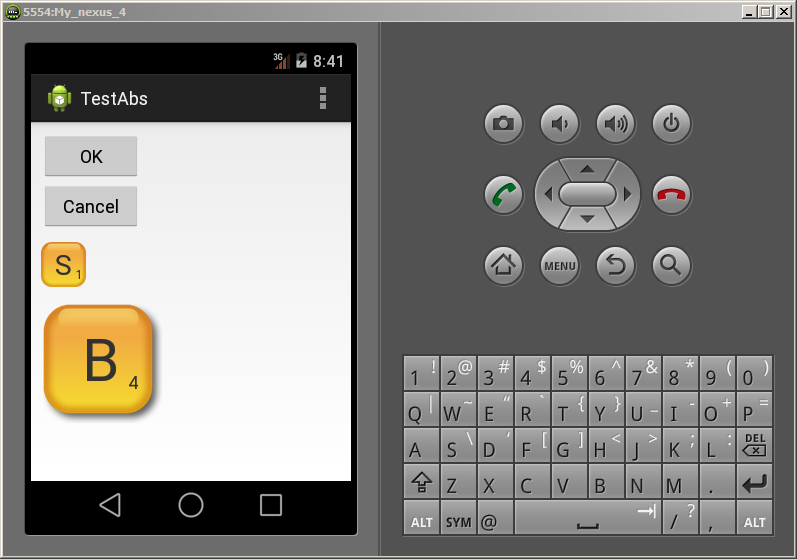
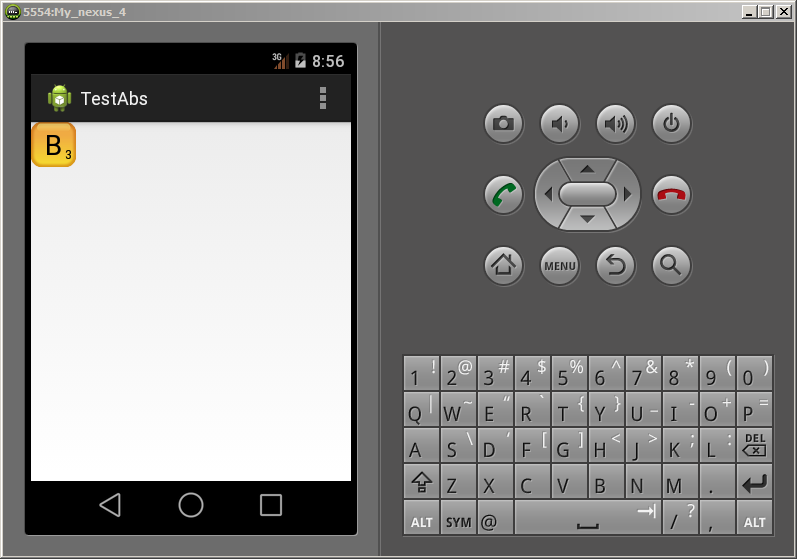
Introduce MyView based (for now) on AbsoluteLayout

Changed region(s): [[0.0301, 0.2129, 0.2108, 0.7603], [0.3312, 0.0912, 0.4517, 0.1216]]

diff --git a/TestAbs/src/de/afarber/testabs/MyView.java b/TestAbs/src/de/afarber/testabs/MyView.java
@@ -1,0 +1,72 @@
+package de.afarber.testabs;
+
+import java.util.Random;
+
+import android.content.Context;
+import android.util.AttributeSet;
+import android.util.Log;
+import android.view.View;
+import android.widget.AbsoluteLayout;
+
+@SuppressWarnings("deprecation")
+public class MyView extends AbsoluteLayout {
+	
+	public final static int NUM = 3;
+	public final static String STR = "ABCDEFGHIJKLMNOPQRSTUVWXYZ";
+	public final static String APP = "de.afarber.testabs";
+	
+	private Random mRandom = new Random();
+
+    public MyView(Context context) {
+        this(context, null, 0);
+    }
+
+    public MyView(Context context, AttributeSet attrs) {
+        this(context, attrs, 0);
+    }
+
+    public MyView(Context context, AttributeSet attrs, int defStyle) {
+        super(context, attrs, defStyle);
+        
+        for (int i = 0; i < NUM; i++) {
+        	String letter = String.valueOf(STR.charAt(mRandom.nextInt(STR.length())));
+        	
+        	SmallTile tile = new SmallTile(
+    			getContext(),
+    			null,
+    			letter,
+    			String.valueOf(i + 1)
+    		);
+        	
+            addView(tile);       	
+        }
+    }
+    
+    @Override
+    protected void onSizeChanged (int w, int h, int oldw, int oldh) {
+        super.onSizeChanged(w, h, oldw, oldh);
+
+    	Log.d(APP, "w=" + w + "; h=" + h + ", oldw=" + oldw + ", oldh=" + oldh);
+
+        int count = getChildCount();
+
+        for (int i = 0; i < count; i++) {
+            View child = getChildAt(i);
+            if (child.getVisibility() == GONE)
+            	return;
+            
+        	int x = mRandom.nextInt(w - child.getWidth());
+        	int y = mRandom.nextInt(h - child.getHeight());
+        	AbsoluteLayout.LayoutParams params = new AbsoluteLayout.LayoutParams(
+    			LayoutParams.WRAP_CONTENT, 
+    			LayoutParams.WRAP_CONTENT, 
+    			x, 
+    			y
+        	);
+        	
+        	Log.d(APP, i + ": x=" + x + "; y=" + y);
+        }
+        
+        requestLayout();
+    }
+}

diff --git a/TestAbs/src/de/afarber/testabs/SmallTile.java b/TestAbs/src/de/afarber/testabs/SmallTile.java
@@ -19,7 +19,7 @@ public class SmallTile extends FrameLayout {
     }
 
     public SmallTile(Context context, AttributeSet attrs) {
-        this(context, attrs, "S", "1");
+        this(context, attrs, null, null);
     }
     
     public SmallTile(Context context, AttributeSet attrs, String letter, String value) {
@@ -32,23 +32,27 @@ public class SmallTile extends FrameLayout {
                 LayoutParams.MATCH_PARENT));
 
         mLetter = new TextView(context);
+        mLetter.setTextColor(Color.BLACK);
+        //mLetter.setBackgroundColor(Color.CYAN);
         mLetter.setTextSize(28);
         mLetter.setText(letter);
-        //mLetter.setBackgroundColor(Color.CYAN);
         FrameLayout.LayoutParams letterParams = new FrameLayout.LayoutParams(
-                LayoutParams.WRAP_CONTENT, 
-                LayoutParams.WRAP_CONTENT,
-                Gravity.CENTER);
+            LayoutParams.WRAP_CONTENT, 
+            LayoutParams.WRAP_CONTENT,
+            Gravity.CENTER
+        );
         addView(mLetter, letterParams);
         
         mValue = new TextView(context);
+        mValue.setTextColor(Color.BLACK);
+        //mValue.setBackgroundColor(Color.CYAN);
         mValue.setTextSize(12);
         mValue.setText(value);
-        //mValue.setBackgroundColor(Color.CYAN);
         FrameLayout.LayoutParams valueParams = new FrameLayout.LayoutParams(
-                LayoutParams.WRAP_CONTENT, 
-                LayoutParams.WRAP_CONTENT,
-                Gravity.BOTTOM | Gravity.RIGHT);
+            LayoutParams.WRAP_CONTENT, 
+            LayoutParams.WRAP_CONTENT,
+            Gravity.BOTTOM | Gravity.RIGHT
+        );
         valueParams.setMargins(0, 0, 4, 4);
         addView(mValue, valueParams);
     }

diff --git a/TestAbs/src/de/afarber/testabs/BigTile.java b/TestAbs/src/de/afarber/testabs/BigTile.java
@@ -19,7 +19,7 @@ public class BigTile extends FrameLayout {
     }
 
     public BigTile(Context context, AttributeSet attrs) {
-        this(context, attrs, "B", "4");
+        this(context, attrs, null, null);
     }
     
     public BigTile(Context context, AttributeSet attrs, String letter, String value) {
@@ -32,9 +32,10 @@ public class BigTile extends FrameLayout {
                 LayoutParams.MATCH_PARENT));
 
         mLetter = new TextView(context);
+        mLetter.setTextColor(Color.BLACK);
+        //mLetter.setBackgroundColor(Color.CYAN);
         mLetter.setTextSize(60);
         mLetter.setText(letter);
-        //mLetter.setBackgroundColor(Color.CYAN);
         FrameLayout.LayoutParams letterParams = new FrameLayout.LayoutParams(
                 LayoutParams.WRAP_CONTENT, 
                 LayoutParams.WRAP_CONTENT,
@@ -43,9 +44,10 @@ public class BigTile extends FrameLayout {
         addView(mLetter, letterParams);
         
         mValue = new TextView(context);
+        mValue.setTextColor(Color.BLACK);
+        //mValue.setBackgroundColor(Color.CYAN);
         mValue.setTextSize(18);
         mValue.setText(value);
-        //mValue.setBackgroundColor(Color.CYAN);
         FrameLayout.LayoutParams valueParams = new FrameLayout.LayoutParams(
                 LayoutParams.WRAP_CONTENT, 
                 LayoutParams.WRAP_CONTENT,

diff --git a/TestAbs/src/de/afarber/testabs/MainActivity.java b/TestAbs/src/de/afarber/testabs/MainActivity.java
@@ -1,19 +1,16 @@
 package de.afarber.testabs;
 
-import android.support.v7.app.ActionBarActivity;
 import android.os.Bundle;
+import android.support.v7.app.ActionBarActivity;
 import android.view.Menu;
 import android.view.MenuItem;
 
-
 public class MainActivity extends ActionBarActivity {
-
-    @Override
+	@Override
     protected void onCreate(Bundle savedInstanceState) {
         super.onCreate(savedInstanceState);
         setContentView(R.layout.activity_main);
     }
-
 
     @Override
     public boolean onCreateOptionsMenu(Menu menu) {
